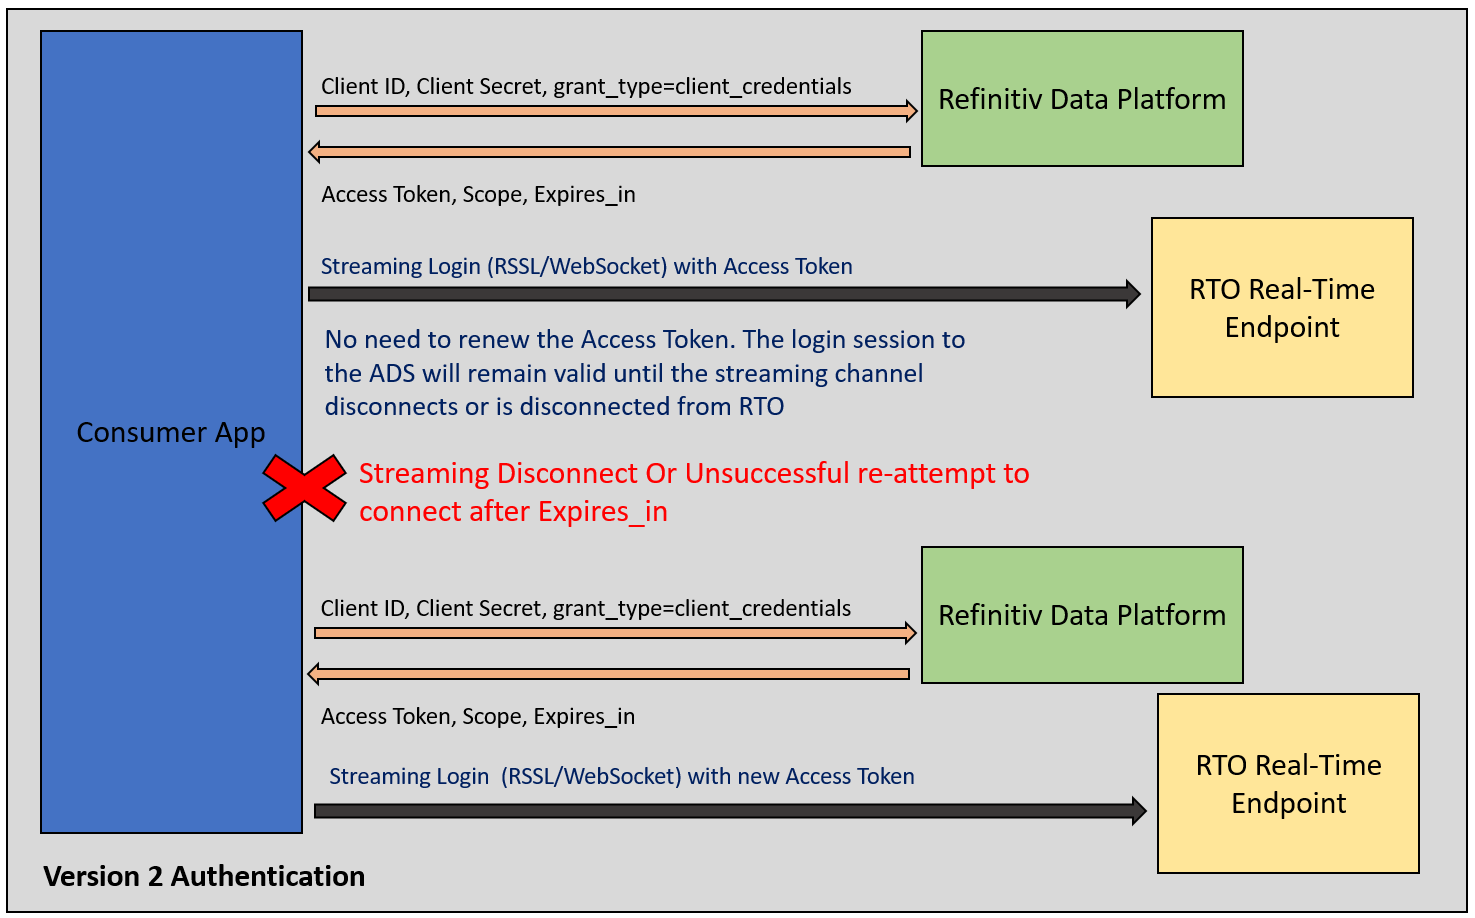
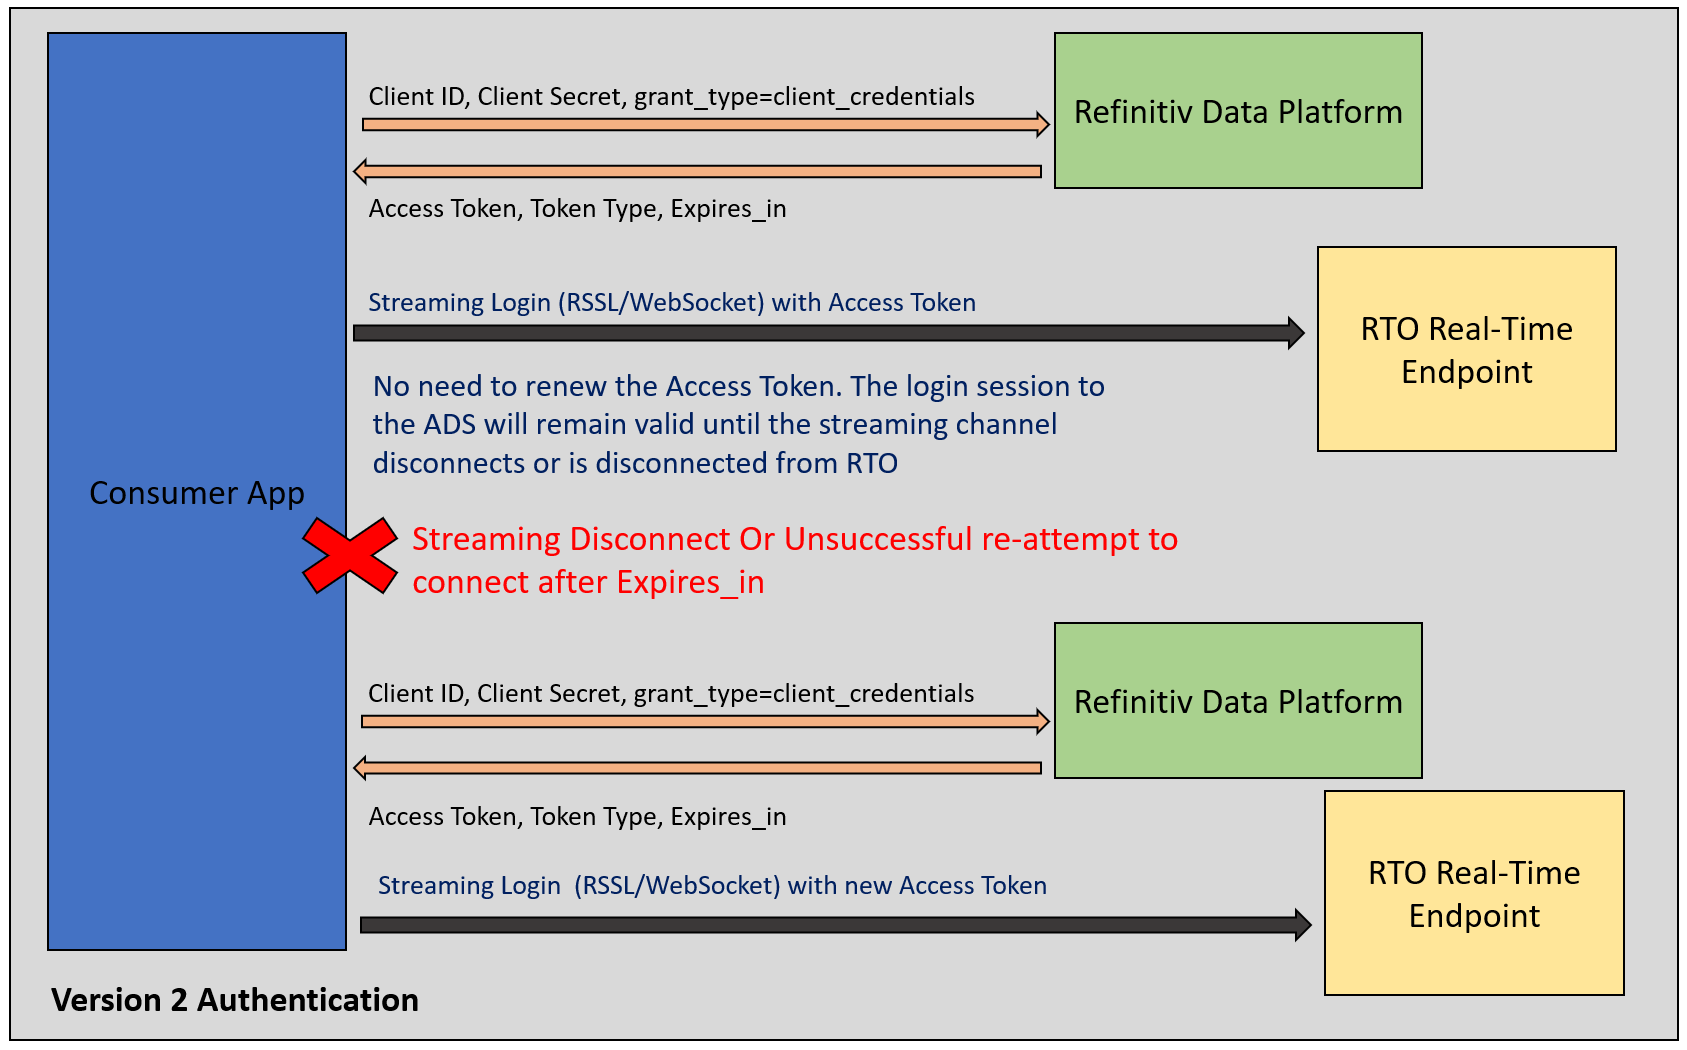
Update content based on Dev's feedback.

diff --git a/AuthenticationV2_Intro.md b/AuthenticationV2_Intro.md
@@ -17,13 +17,13 @@ The first step of an application workflow is to get a token from RDP Authenticat
 
 Refinitiv Data Platform (RDP) entitlement check is based on OAuth 2.0 specification. The RDP's Version 1 Authentication service uses the [Password Grant](https://www.oauth.com/oauth2-servers/access-tokens/password-grant/) and [Refresh Token Grant](https://www.oauth.com/oauth2-servers/access-tokens/refreshing-access-tokens/) models to get the first set of tokens and renew subsequent tokens respectively. 
 
-On the other hand, the RDP's Version 2 Authentication (or simply known as *V2 auth*, *oAuthClientCredentials* or *V2 Client Credentials*) service uses the oAuth2.0 [Client Credentials Grant](https://www.oauth.com/oauth2-servers/access-tokens/client-credentials/) model for getting token information. So, what the Client Credentials Grant Model is?
+On the other hand, the RDP's Version 2 Authentication (or simply known as *V2 auth*, *oAuthClientCredentials* or *V2 Client Credentials*) service uses the oAuth2.0 [Client Credentials Grant](https://www.oauth.com/oauth2-servers/access-tokens/client-credentials/) and [Client Credentials with Private JWT Key](https://auth0.com/docs/secure/tokens/json-web-tokens) (*future release*) models for authentication. So, what those models are?
 
 ## <a id="intro_client_credential"></a>What is OAuth 2.0 - Client Credentials Grant Model?
 
 The Client Credentials grant is used when applications request an access token to access their resources, not on behalf of a user.  This flow is the golden standard for machines-to-machines communication. The client credentials grant type allows an application to obtain an access token for resources owned by the client or when authorization has been *“previously arranged with an authorization server.”* This grant type is appropriate for applications that need to access APIs, such as storage services or databases, on behalf of themselves rather than on behalf of a specific user. 
 
-This model uses the ```client_id``` and ```client_secret``` as the client authentication information to authenticate clients for this request. The ```client_id``` is a public identifier for apps, and the ```client_secret``` is the application’s password. The request ```grant_type``` parameter must be set to **client_credentials**. Please find more detail about the Client ID and Secret from the [OAuth 2.0  - The Client ID and Secret](https://www.oauth.com/oauth2-servers/client-registration/client-id-secret/) page.
+This model uses the ```client_id``` as a *Service ID* (public identifier for apps) and ```client_secret``` as a *Password* to authenticate clients for this request. The request ```grant_type``` parameter must be set to **client_credentials**. Please find more detail about the Client ID and Secret from the [OAuth 2.0  - The Client ID and Secret](https://www.oauth.com/oauth2-servers/client-registration/client-id-secret/) page.
 
 Example HTTP request message from the [oauth.com](https://www.oauth.com/) website:
 ``` HTTP
@@ -50,12 +50,22 @@ Cache-Control: no-store
   "expires_in":7199
 }
 ```
-That’s all I have to say about the basics of the Client Credentials Model grant model. My next point is the difference between V1 and V2, and what are V2 benefits over V1.
+That’s all I have to say about the basics of the Client Credentials Model grant model. 
 
-## <a id="v1_v2_summary"></a>Authentication V1 and V2 Differences Summary
+## <a id="intro_jwt"></a>What is Client Credentials with Private JWT Key Model? - Future Release
+
+JSON web token (JWT), is an open standard ([RFC 7519](https://tools.ietf.org/html/rfc7519)) that defines a compact and self-contained way for securely transmitting information between parties as a JSON object. The tokens are signed either using a private secret or a public/private key.
+
+In this model instead of the client application using a client_id + client_secret in the Client Credentials Model grant model, the client application (and their Security team) create a JWT, sends the public key to us, and uses the JWT to sign the assertion for authentication to RDP. 
+
+This Private JWT Key Model will be released in a future release. This article is focusing on the Client Credentials Grant model for now.
+
+My next point is the difference between V1 and V2 - Client Credentials Model, and what are V2 benefits over V1.
+
+## <a id="v1_v2_summary"></a>V1 Authentication and V2 Client Credentials Model Differences Summary
 
 1. The API URL (**v1** and **v2**)
-2. Credential. The V1 uses Machine Account (username, password, and App-Key), but the V2 uses a Service account (Client ID and Client Secret).
+2. Credential. The V1 uses Machine Account (username, password, and App-Key), but the V2 - Client Credentials Model uses a Service account (Client ID and Client Secret).
 3. Grant Type models (V1 - Password/Refresh Grant vs V2 - Client Credentials) and request parameters 
 4. Token Response Messages between V1 and V2 are different
 5. The V2 uses the same Client Credential grant request message for both the initial request and renewal of the access token.
@@ -73,7 +83,7 @@ That’s all I have to say about the basics of the Client Credentials Model gran
 
 That covers a brief introduction to Version 2 Authentication.
 
-## <a id="v2_http_detail"></a>Version 2 Authentication HTTP Operation in Details 
+## <a id="v2_http_detail"></a>Version 2 Client Credentials Model - Authentication HTTP Operation in Details 
 
 Moving on to the technical detail of the Version 2 Authentication. It is part of the RDP HTTP Web-based API that provides authentication service for users and applications via the Request-Response RESTful web service delivery mechanism. In general, the V2 is based on the [OAuth 2.0 - Client Credentials](https://www.oauth.com/oauth2-servers/access-tokens/client-credentials/) model. The API endpoint, credentials, request parameters, and response messages are not compatible with Authentication V1.
 
@@ -101,10 +111,10 @@ The request parameters of V1 and V2 are different. The Version 2 Authentication 
 
 When you log into the Refinitiv Data Platform (either initial connection or renewal), you must use a ```grant_type``` of **client_credentials** to get access token information.
 
-The Version 2 Authentication requires the following access credential information in the HTTP request parameters:
+The Version 2 Authentication - Client Credentials Model requires the following access credential information in the HTTP request parameters:
 - **grant_type**: The grant_type parameter must be set to **client_credentials**.
-- **client_id**:  The ```client_id``` is a public identifier for apps.
-- **client_secret**:  The ```client_secret``` is a secret known only to the application and the authorization server. It is essential to have the application’s password associated with the client ID.
+- **client_id**:  The ```client_id``` is a Service ID (public identifier for apps).
+- **client_secret**:  The ```client_secret``` is a secret known only to the application and the authorization server (Password).
 - **scope (optional)**: Limits the scope of the generated token so that the Access token is valid only for a specific data set
 
 **Note**: The ```V2 client_id``` **is not the same value** as the ```V1 client_id```. The ```V1 client_id``` is an ```app key``` of the [V1 - Password Grant Model](https://www.oauth.com/oauth2-servers/access-tokens/password-grant/).
@@ -308,7 +318,7 @@ Please note that the main Version 2 Authentication workflow's concept is the sam
 
 The rest of the code logic such as subscription logic, incoming message callbacks, ping-pong messages, etc is the same.
 
-For more detail about using Version 2 Authentication with the WebSocket API, please check the upcoming *Getting Started with Version 2 Authentication using WebSocket API* article (TBD).
+For more detail about using Version 2 Authentication with the WebSocket API, please check the upcoming [Getting Started with Version 2 Authentication using WebSocket API article](./WS_Migration_V2.md).
 
 #### WebSocket API Version 2 Authentication - Quick Start
 

diff --git a/EMA_Cpp_Migration_V2.md b/EMA_Cpp_Migration_V2.md
@@ -14,7 +14,7 @@ This article is based on RTSDK C++ version 2.0.7.L1 (EMA/ETA API version 3.6.7).
 
 ## <a id="v2_summary"></a>RDP Authentication Service version 2 Summaries
 
-Let’s start with a summary of the RDP's Version 2 Authentication Service (simply known as *V2 auth*, *oAuthClientCredentials* or *V2 Client Credentials*) service. It is based on the [OAuth 2.0 - Client Credentials](https://www.oauth.com/oauth2-servers/access-tokens/client-credentials/) model. The Version 2 Authentication simplifies the usage of access tokens. The V2 auth will only generate an access token, not both access and refresh tokens. 
+Let’s start with a summary of the RDP's Version 2 Authentication Service (simply known as *V2 auth*, *oAuthClientCredentials* or *V2 Client Credentials*) service. It is based on the [OAuth 2.0 - Client Credentials Grant](https://www.oauth.com/oauth2-servers/access-tokens/client-credentials/) and [Client Credentials with Private JWT Key](https://auth0.com/docs/secure/tokens/json-web-tokens) (*future release*) models. The Version 2 Authentication - Client Credentials simplifies the usage of access tokens. The V2 auth will only generate an access token, not both access and refresh tokens. 
 
 Once connected to the Refinitiv Real-Time Optimized with an access token, there is no need to renew the access Token. The login session will remain valid until the application disconnects or is disconnected from RTO. The application/API will only re-request an Access Token in the following scenarios:
 * When the consumer disconnects and goes into a reconnection state.
@@ -26,17 +26,27 @@ API URL endpoint: **http://api.refinitiv.com/auth/oauth2/v2/token** (please be n
 
 ### Request Parameters
 
-The Version 2 Authentication does not use the **Password Grant/Refresh Grant** model, all connections (initial connection and re-new) use a ```grant_type``` of **client_credentials** to get access token information.
+There are 2 types of Version 2 Authentication, the *Client Credentials Grant* and *Private JWT*. 
 
-The Version 2 Authentication requires the following access credential information in the HTTP request parameters:
+#### Client Credentials Grant
+
+The Version 2 Authentication - Client Credentials Grant model does not use the **Password Grant/Refresh Grant** model, all connections (initial connection and re-new) use a ```grant_type``` of **client_credentials** to get access token information.
+
+The client must have the Service Credentials information for the Version 2 Authentication - Client Credentials Grant model which is the information in the HTTP request parameters:
 - **grant_type**: The grant_type parameter must be set to **client_credentials**.
-- **client_id**:  The ```client_id``` is a public identifier for apps.
-- **client_secret**:  The ```client_secret``` is a secret known only to the application and the authorization server. It is essential to have the application’s password associated with the client ID.
+- **client_id**:  The ```client_id``` is a Service ID (public identifier for apps).
+- **client_secret**:  The ```client_secret``` is a secret known only to the application and the authorization server (Password).
 - **scope (optional)**: Limits the scope of the generated token so that the Access token is valid only for a specific data set
 
 **Note**: The ```V2 client_id``` **is not the same value** as the ```V1 client_id``` which is an ```app key``` of the [V1 - Password Grant Model](https://www.oauth.com/oauth2-servers/access-tokens/password-grant/).
 
-That covers the overview of the RDP Authentication Service version 2.
+#### Client Credentials with Private JWT Key
+
+The Private JWT uses a JSON object as a signed token (either a private secret or a public/private key). In this model instead of the client application using a client_id + client_secret in the Client Credentials Model grant model, the client application (and their Security team) create a JWT, sends the public key to us, and uses the JWT to sign the assertion for authentication to RDP. 
+
+This Private JWT Key Model will be released in a future release. This article is focusing on the Client Credentials Grant model for now.
+
+That covers the overview of the RDP Authentication Service version 2. This article is now focusing on the Client Credentials Grant model only.
 
 ## <a id="prerequisite"></a>Prerequisite
 The Version 2 Authentication requires the following dependencies.

diff --git a/EMA_Java_Migration_V2.md b/EMA_Java_Migration_V2.md
@@ -14,7 +14,7 @@ This article is based on RTSDK Java version 2.0.7.L1 (EMA/ETA API version 3.6.7)
 
 ## <a id="v2_summary"></a>RDP Authentication Service version 2 Summaries
 
-Let’s start with a summary of the RDP's Version 2 Authentication Service (simply known as *V2 auth*, *oAuthClientCredentials* or *V2 Client Credentials*) service. It is based on the [OAuth 2.0 - Client Credentials](https://www.oauth.com/oauth2-servers/access-tokens/client-credentials/) model. The Version 2 Authentication simplifies the usage of access tokens. The V2 auth will only generate an access token, not both access and refresh tokens. 
+Let’s start with a summary of the RDP's Version 2 Authentication Service (simply known as *V2 auth*, *oAuthClientCredentials* or *V2 Client Credentials*) service. It is based on the [OAuth 2.0 - Client Credentials Grant](https://www.oauth.com/oauth2-servers/access-tokens/client-credentials/) and [Client Credentials with Private JWT Key](https://auth0.com/docs/secure/tokens/json-web-tokens) (*future release*) models. The Version 2 Authentication - Client Credentials simplifies the usage of access tokens. The V2 auth will only generate an access token, not both access and refresh tokens. 
 
 Once connected to the Refinitiv Real-Time Optimized with an access token, there is no need to renew the access Token. The login session will remain valid until the application disconnects or is disconnected from RTO. The application/API will only re-request an Access Token in the following scenarios:
 * When the consumer disconnects and goes into a reconnection state.
@@ -26,17 +26,27 @@ API URL endpoint: **http://api.refinitiv.com/auth/oauth2/v2/token** (please be n
 
 ### Request Parameters
 
-The Version 2 Authentication does not use the **Password Grant/Refresh Grant** model, all connections (initial connection and re-new) use a ```grant_type``` of **client_credentials** to get access token information.
+There are 2 types of Version 2 Authentication, the *Client Credentials Grant* and *Private JWT*. 
 
-The Version 2 Authentication requires the following access credential information in the HTTP request parameters:
+#### Client Credentials Grant
+
+The Version 2 Authentication - Client Credentials Grant model does not use the **Password Grant/Refresh Grant** model, all connections (initial connection and re-new) use a ```grant_type``` of **client_credentials** to get access token information.
+
+The client must have the Service Credentials information for the Version 2 Authentication - Client Credentials Grant model which is the information in the HTTP request parameters:
 - **grant_type**: The grant_type parameter must be set to **client_credentials**.
-- **client_id**:  The ```client_id``` is a public identifier for apps.
-- **client_secret**:  The ```client_secret``` is a secret known only to the application and the authorization server. It is essential to have the application’s password associated with the client ID.
+- **client_id**:  The ```client_id``` is a Service ID (public identifier for apps).
+- **client_secret**:  The ```client_secret``` is a secret known only to the application and the authorization server (Password).
 - **scope (optional)**: Limits the scope of the generated token so that the Access token is valid only for a specific data set
 
 **Note**: The ```V2 client_id``` **is not the same value** as the ```V1 client_id``` which is an ```app key``` of the [V1 - Password Grant Model](https://www.oauth.com/oauth2-servers/access-tokens/password-grant/).
 
-That covers the overview of the RDP Authentication Service version 2.
+#### Client Credentials with Private JWT Key
+
+The Private JWT uses a JSON object as a signed token (either a private secret or a public/private key). In this model instead of the client application using a client_id + client_secret in the Client Credentials Model grant model, the client application (and their Security team) create a JWT, sends the public key to us, and uses the JWT to sign the assertion for authentication to RDP. 
+
+This Private JWT Key Model will be released in a future release. This article is focusing on the Client Credentials Grant model for now.
+
+That covers the overview of the RDP Authentication Service version 2. This article is now focusing on the Client Credentials Grant model only.
 
 ## <a id="prerequisite"></a>Prerequisite
 The Version 2 Authentication requires the following dependencies.
